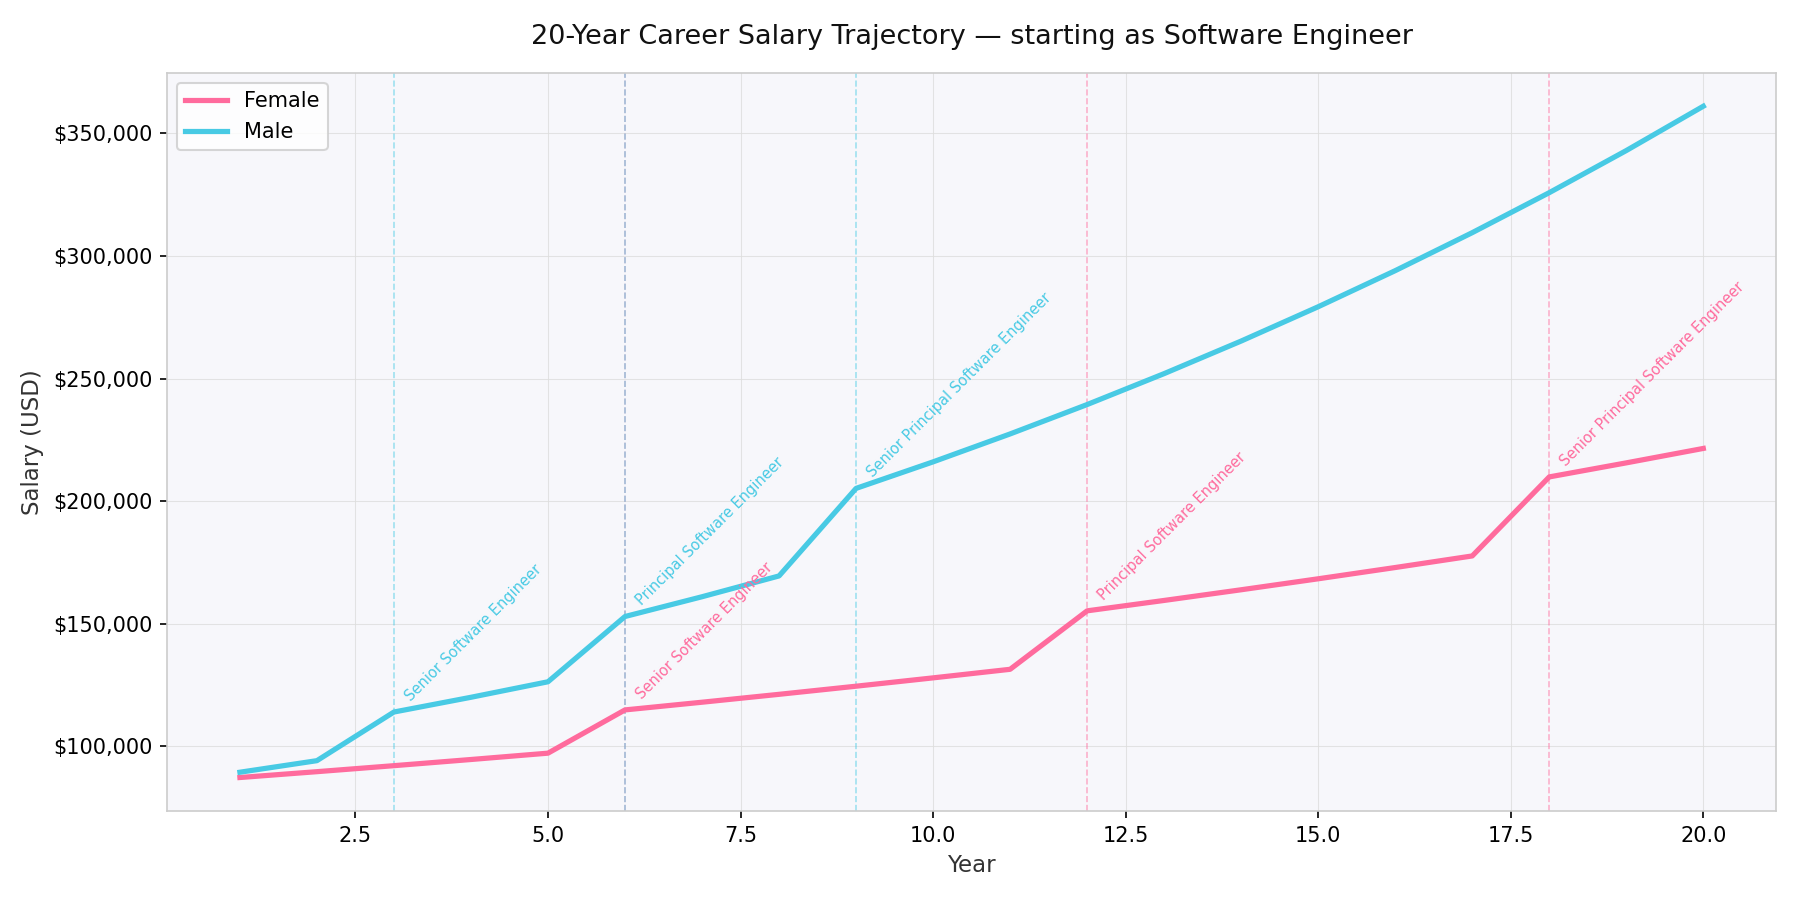
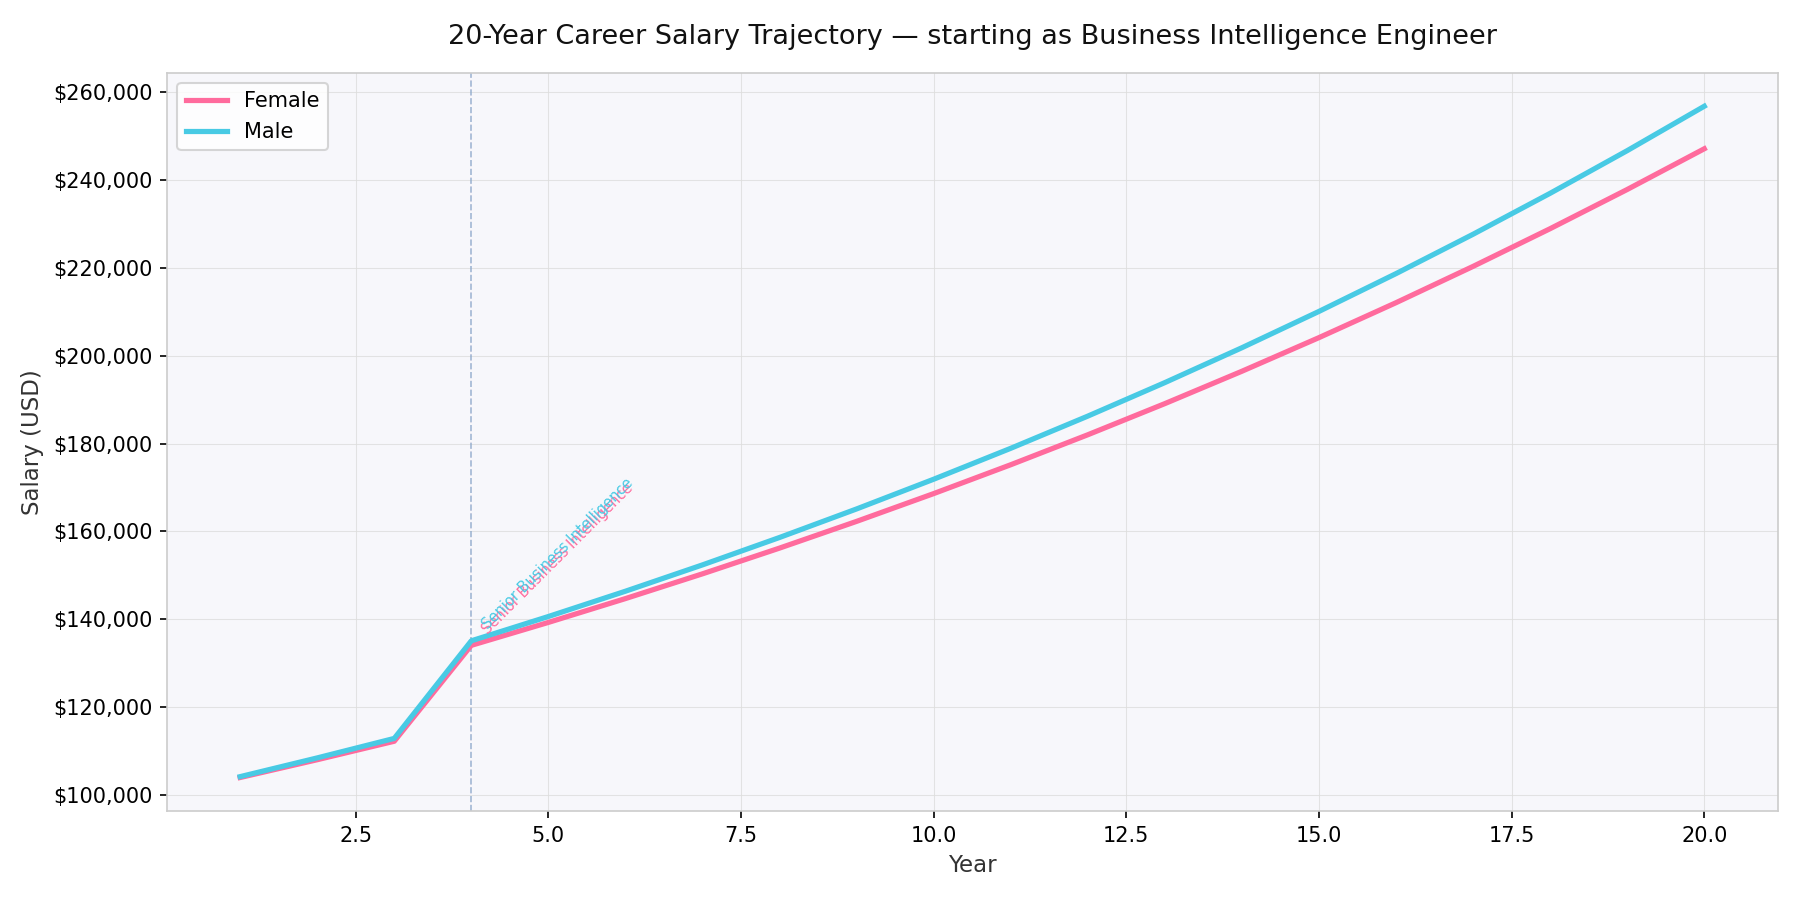
frontend works

diff --git a/src/App.jsx b/src/App.jsx
@@ -465,15 +465,19 @@ function ResultsNav({ active, setActive, onHome }) {
             Salary cluster analysis
           </h3>
           <p style={{ fontSize: 10, color: C.muted, fontFamily: "'DM Mono',monospace", marginBottom: 20 }}>
-            Placeholder · Replace with ML model cluster output
+            Where you fall among similar professionals
           </p>
-          <div style={{ display: "flex", alignItems: "center", justifyContent: "center", background: C.roseSoft, borderRadius: 16, height: 320, border: `1px solid ${C.border}` }}>
-            <div style={{ textAlign: "center" }}>
-              <div style={{ fontSize: 48, marginBottom: 12 }}>🔵</div>
-              <p style={{ fontFamily: "'DM Mono',monospace", fontSize: 12, color: C.muted }}>Cluster image goes here</p>
-              <p style={{ fontFamily: "'DM Mono',monospace", fontSize: 10, color: C.border, marginTop: 6 }}>[ drop in your cluster plot image ]</p>
+          {mlLoading ? <LoadingOverlay /> : mlResult?.cluster_image_path ? (
+            <img
+              src={`/ml-api/output/user_results/${mlResult.cluster_image_path.split("/").pop()}`}
+              alt="Salary cluster analysis"
+              style={{ width: "100%", borderRadius: 16, border: `1px solid ${C.border}` }}
+            />
+          ) : (
+            <div style={{ display: "flex", alignItems: "center", justifyContent: "center", background: C.roseSoft, borderRadius: 16, height: 320, border: `1px solid ${C.border}` }}>
+              <p style={{ fontFamily: "'DM Mono',monospace", fontSize: 12, color: C.muted }}>Submit the form to see your cluster</p>
             </div>
-          </div>
+          )}
         </>}
 
         {/* ── LINE CHART ── */}

diff --git a/ml/gmm.py b/ml/gmm.py
@@ -6,8 +6,9 @@ from sklearn.preprocessing import StandardScaler
 from itertools import product
 from pathlib import Path
 
-DATA_PATH = Path(__file__).parent.parent / 'data' / 'education_career_success.csv'
-OUT_DIR   = Path(__file__).parent / 'output'
+DATA_PATH   = Path(__file__).parent.parent / 'data' / 'education_career_success.csv'
+IT_DATA_PATH = Path(__file__).parent.parent / 'data' / 'US_information_technology.csv'
+OUT_DIR     = Path(__file__).parent / 'output'
 
 LEVEL_ORDER = {'Entry': 0, 'Mid': 1, 'Senior': 2, 'Executive': 3}
 
@@ -20,7 +21,7 @@ PARAM_GRID = {
 
 
 def curr_probability(role):
-    df = pd.read_csv("data/US_information_technology.csv")
+    df = pd.read_csv(IT_DATA_PATH)
     role_df = df[df["from"] == role]
     if role_df.empty:
         return 0.5
@@ -150,7 +151,7 @@ def promotion_chain(role, gmm, scaler, age, university_gpa, internships_complete
     Walk the most likely promotion path from role (highest-frequency next role at each step)
     where promotion_prob >= 0.8. Returns a flat list: [{'from', 'to', 'female_prob', 'male_prob'}, ...]
     """
-    it_df   = pd.read_csv("data/US_information_technology.csv")
+    it_df   = pd.read_csv(IT_DATA_PATH)
     chain   = []
     visited = set()
     current = role

diff --git a/ml/api.py b/ml/api.py
@@ -38,6 +38,7 @@ import joblib
 import pandas as pd
 from fastapi import FastAPI, HTTPException
 from fastapi.middleware.cors import CORSMiddleware
+from fastapi.staticfiles import StaticFiles
 from pydantic import BaseModel, Field
 from typing import List
 
@@ -164,6 +165,8 @@ app.add_middleware(
     allow_methods=["*"],
     allow_headers=["*"],
 )
+
+app.mount("/output", StaticFiles(directory=str(OUT_DIR)), name="output")
 
 
 @app.post('/analyze', response_model=AnalysisResult)